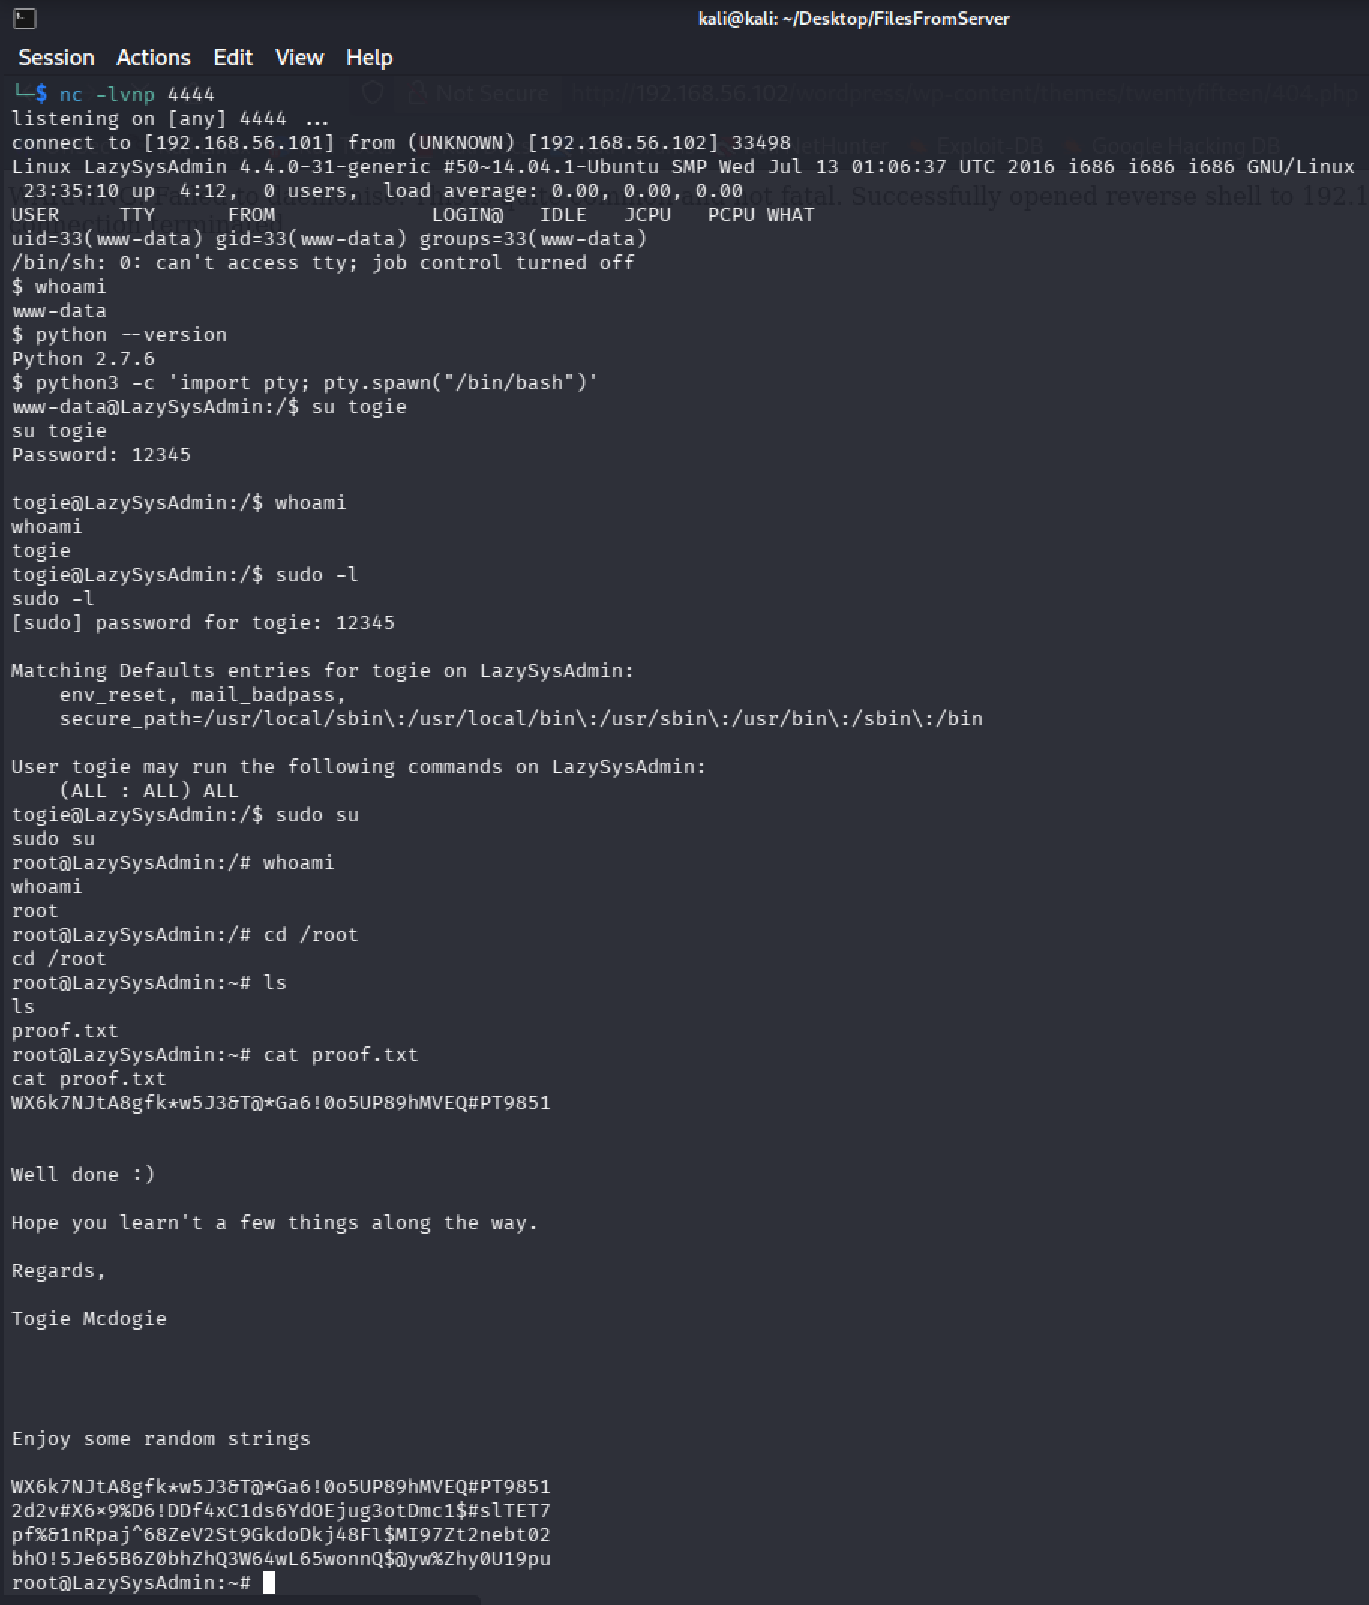
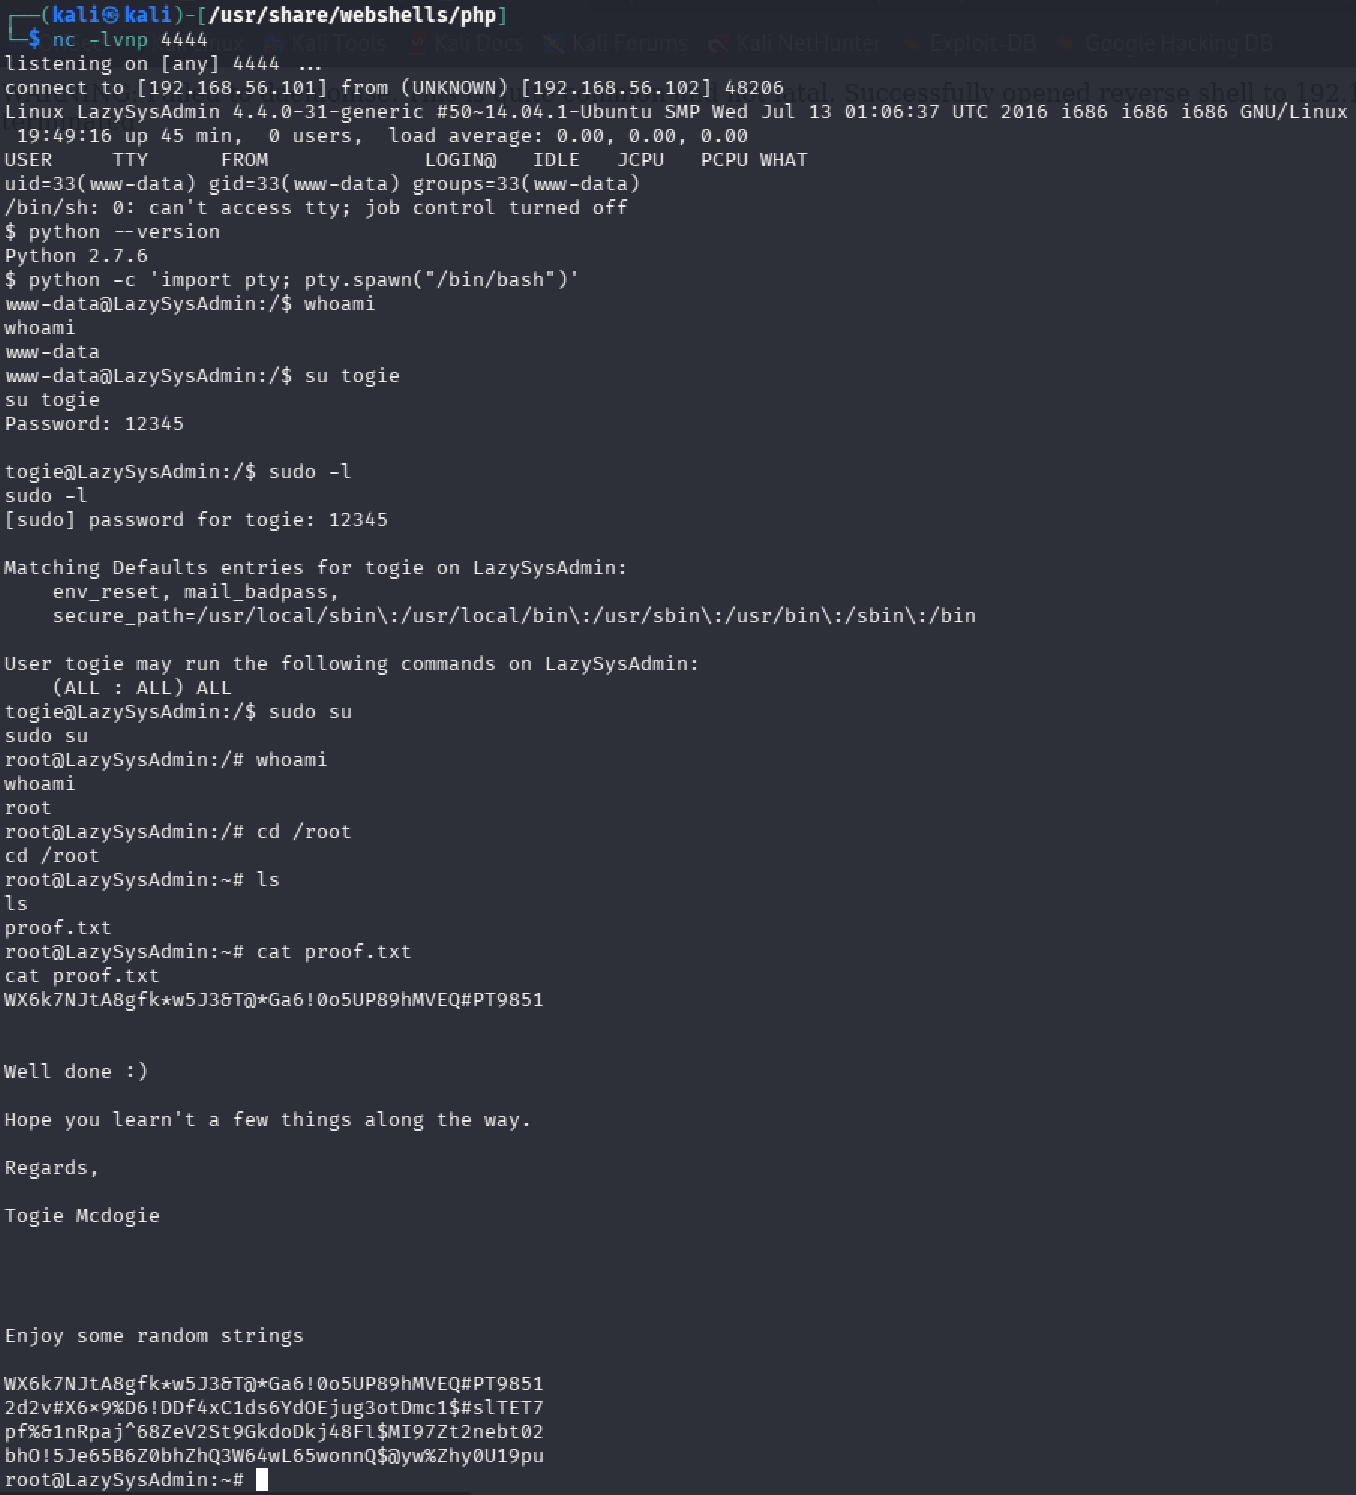
Correction of the Reverse Shell screenshot and the report for better understanding

diff --git a/report.md b/report.md
@@ -1,6 +1,6 @@
 # LazySysAdmin CTF walkthrough
 
-This small project aims to breach the vulnerable VM **[LazySysAdmin](https://www.vulnhub.com/entry/lazysysadmin-1,205/ "Download the VM")**, a Boot-to-Root challenge with full writeup available on [VulnHub](https://www.hackingarticles.in/hack-lazysysadmin-vm-ctf-challenge/ "See the original writeup"), to demonstrate how misconfigurations and poor administrative practices can lead to a deep compromise in just few minutes.  
+This small project aims to breach the vulnerable VM **[LazySysAdmin](https://www.vulnhub.com/entry/lazysysadmin-1,205/ "Download the VM")** found on VulnHub, a Boot-to-Root challenge with full writeup available on [this article](https://www.hackingarticles.in/hack-lazysysadmin-vm-ctf-challenge/ "See the original writeup"), to demonstrate how misconfigurations and poor administrative practices can lead to a deep compromise in just few minutes.  
 > _Note_: at the beginning the project started following the writeup mentioned but subsequently evolved into a different approach. To see the original idea follow the link above.
 
 
@@ -9,6 +9,7 @@ This small project aims to breach the vulnerable VM **[LazySysAdmin](https://www
 > ⚠**Threat model**: attacker is able to communicate with the vulnerable service (e.g., service has public IP & vulnerable ports open)
 
 Environment: _Kali Linux_ (attacker) vs _LazySysAdmin_ (victim) within the same Host-Only VirtualBox isolated network to secure the test environment.  
+
 The _LazySysAdmin_ machine will be constantly waiting for interactive logon while attacker is operating beneath.   
 
 ![LazySysAdmin machine during the whole attack](images/LazySysAdmin.png)
@@ -21,7 +22,7 @@ The following schema is just to have an idea of the attack structure, it is not 
 2. **Discovery**: `smbclient` for exploring victim's SMB shared objects and analyzing configuration files
 3. **Initial Access & Exploitation**:
     * **Valid Accounts**: abuse of admin's valid credentials through remote SSH access
-    * **Exploit Public-Facing Application**: abuse of admin DB's valid credentials to obtain a Reverse Shell through WordPress' admin panel
+    * **Exploit Public-Facing Application**: abuse of admin database's valid credentials to obtain a Reverse Shell through WordPress' admin panel
 4. **Execution**: RCE via Reverse Shell using Python `pty` module
 5. **Privilege Escalation** & CTF: abusing permissive configuration in `/etc/sudoers` (`ALL:ALL ALL`) to obtain interactive shell as _root_ & completing the challenge "capturing the flag" inside _root_'s directory   
 
@@ -56,40 +57,44 @@ I was indeed able to access them with privileges of downloading files and traver
 * username and password of the service-admin control panel in WordPress: _Admin, TogieMYSQL12345^^_  
 
 **Security implications**  
-These findings higlight a critical flaw in administrative operations: _credential harvesting through data leakage_. `deets.txt` suggests that the administrator used the public network share as a temporary/permanent notepad for sensitive assets. In addition, the presence of `wp-config.php` is particularly sensitive because WordPress stores database credentials in plaintext to establish runtime connections.
+These findings higlight a critical flaw in administrative operations: _credential harvesting through data leakage_.  
+* `deets.txt` suggests that the admin used the publicly available _share$_ folder as a temporary/permanent notepad for sensitive information
+* `wp-config.php` is critical from a security point of view because WordPress stores database's credentials in plaintext to establish runtime connections
 
 > For the following sections (3,4,5) I decided to take a partial detour from the original writeup because I noticed a simpler way of continuing the attack (follow the route "a" for SSH or "b" via Wordpress).
 
 ---
 
-### 3a. Initial Access: Valid Accounts
+### 3a. Initial Access: Valid Accounts <a id="ch3parA"></a>
 
 As we previously saw from the screenshot there is also an open SSH port that I tried to use with a bunch of simple usernames combined with the password of the host-admin account, having success with the one in the following screenshot.
 
 ![Found SSH connection](images/ssh_valid_accounts.png)  
-I tried this specific username in particular because it is the username of the creator of the CTF, so in the context of the attack it is reasonable to assume that the attacker may know the username of the attacked account in advance (e.g: due to a leak, prior organization knowledge).  
+I tried this specific username in particular because it is the username of the creator of the CTF, so in the context of the attack it is reasonable to assume that the attacker may know the username of the attacked account in advance (e.g., due to a leak or prior organization knowledge).  
 
 Now I'm currently logged in as _togie_. In section ([5](#ch5)) we'll see how I used this connection.
 
 
-### 3b. Exploitation: Exploit Public-Facing Application
+### 3b. Exploitation: Exploit Public-Facing Application <a id="ch3parB"></a>
 
-An alternative, longer and graphical way of reaching the same position starts from surfing the address `<serverIP>/wordpress/wp-admin/index.php` on the browser. This is the admin login page, in which I inserted the credentials of the admin DB found inside the file at ([2](#ch2)) and successfully entered as WordPress admin.  
+An alternative, longer and graphical way of reaching the same position starts from surfing the address `<serverIP>/wordpress/wp-admin/index.php` on the browser.  
 
-With these capabilities I altered one of the _php_ pages of the active template (I've chosen `404.php`) to inject a ready-to-use Reverse Shell, located at `/usr/share/webshells/php/php-reverse-shell.php` inside Kali, omitted for brevity and slightly modified to connect to the Kali machine (IP & port). 
+![WodPress admin control panel](images/wordpress_admin_login_page.png)  
+This is the admin login page, in which I inserted the credentials of the admin database found inside the file at ([2](#ch2)) and successfully entered as WordPress admin.  
+
+With these capabilities I altered one of the _php_ pages of the active template (I've chosen `404.php`) to inject a ready-to-use Reverse Shell, located at `/usr/share/webshells/php/php-reverse-shell.php` inside Kali, omitted for brevity and slightly modified to connect to the Kali machine (IP & port).  
+However, a default version of the Reverse Shell is available at [my GitHub](php-reverse-shell.php "php-reverse-shell.php"). 
 
 The Reverse Shell is preferable w.r.t. the Bind Shell from the attacker point of view because it forces the victim (upon triggering) to create an outbound connection to a machine attacker-controlled (Kali in this case), less likely to be blocked by perimeter defenses such as firewalls and NAT, in contrast with the Bind Shell.
  
 A command-line tool not only useful for reading and writing data across network connections using TCP/UDP is Netcat (`nc`), it operates in two primary modes: Listen mode (acting as a server) and Connect mode (acting as a client).  
-With the following command I set up a verbose listener on Kali on port 4444:  
+With the following command I set up a verbose listener on Kali on port 4444, the "server" of the connection:  
 ```bash
 nc -lvnp 4444
 ```
 >Observation: I've choosen port 4444 but if I wanted to make the attacker sneakier I could have just used a well-known port (e.g., 80, 443) to mimic a usual outbound connection.  
 
 Then I triggered the Reverse Shell visiting the _php_ page just modified via browser, in my case `<serverIP>/wordpress/wp-content/themes/twentyfifteen/404.php`. 
-
-A default version of the Reverse Shell is available at [my GitHub](php-reverse-shell.php "php-reverse-shell.php").
 
 ---
 
@@ -116,10 +121,10 @@ I executed the following command to know which commands _togie_ is able to execu
 sudo -l
 ```
 The output is pretty self-explanatory: `(ALL:ALL) ALL`, meaning that this account is able to execute any command on the host.  
-Executing `sudo su` I was able to become _root_ and complete the challenge capturing the flag:
-* via SSH
+Executing `sudo su` I was able to become _root_, gaining full privileges on the machine, and complete the challenge capturing the flag:
+* route [a](#ch3parA), via SSH
 ![Capturing the flag via SSH](images/ssh_CTF.png)
-* using the Reverse Shell
+* route [b](#ch3parB), using the Reverse Shell
 ![Capturing the flag using the Reverse Shell](images/reverse_shell_CTF.png)
 
 
@@ -127,12 +132,12 @@ Executing `sudo su` I was able to become _root_ and complete the challenge captu
 
 This attack demonstrates the effectiveness of attacks based on misconfigurations. It was not necessary to exploit any vulnerability; the whole compromise was carried out abusing overprivileges and bad practices only.  
 
-1. **Credential exposure at first**  
-The compromise originated entirely from credential disclosure. The SMB share directory exposed sensitive files containing authentication material, simplifying subsequent phases of the attack
+1. **Credential exposure**  
+The compromise originated entirely from credential disclosure. The SMB _share$_ directory exposed sensitive files containing authentication material, simplifying subsequent phases of the attack
 2. **Potential impact of (even partial) credential reuse**  
 From a theoretical point of view, compromising the right set of credentials could compromise multiple trust boundaries (e.g., the ones of the server and of the service) or simplify future attack steps
-3. **Critical weakness**  
-A far too permissive `(ALL:ALL) ALL` _sudo_ configuration for the account leveraged by the attacker led to a full system compromise. Even if earlier attack stages will be partially mitigated, obtaining access as this user would still result in a critical compromise. 
+3. **Critical flaw on application of _principle of least privilege_**  
+A far too permissive `(ALL:ALL) ALL` _sudo_ configuration for the account _togie_ leveraged by the attacker led to a full system compromise. Even if earlier attack stages will be partially mitigated, obtaining access as this user would still result in a critical compromise. 
 4. **CVE observation**  
 The system was also affected by **CVE-2018-15473**, a user enumeration vulnerability in OpenSSH. However, exploiting this vulnerability was not necessary because enough information had already been obtained before the attack itself through disclosed credentials and contextual information
 
@@ -143,7 +148,7 @@ The attack leverages only onto human errors, mainly violations to the _Principle
 To secure the server it is needed to apply:
 * **Samba configuration change**: disable anonymous _guest_ access to shared directories
 * **Password policy hardening**: use for each IT entity a different, "complex" and "reasonably long" password (e.g., not the same between service and workstation)
-* **Privilege restriction**: restrict privileges inside `/etc/sudoers` in a way that normal user cannot execute any command as root without admin password
+* **Privilege restriction**: restrict privileges inside `/etc/sudoers` in a way that normal user (e.g., _togie_) cannot execute any command not useful on the pursuit of his actions
 * **Log auditing**: implementing some logging policy allow to eventually generate alerts whenever local non-privileged user triggers _sudo -l_
 
 
